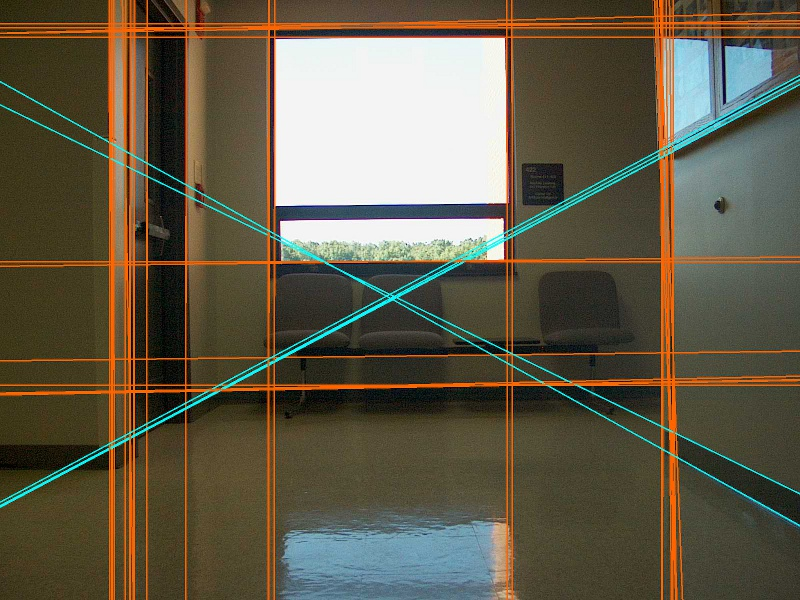
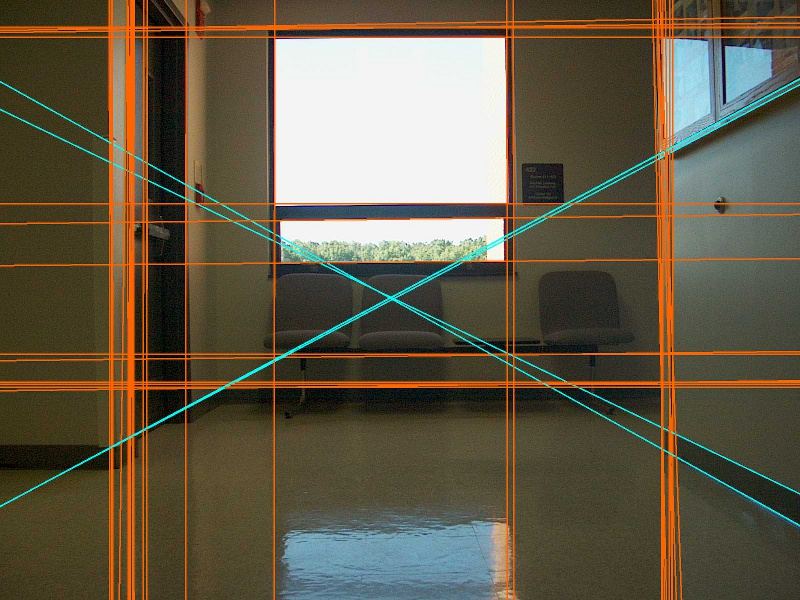
update

diff --git a/hw4/src/hw4.py b/hw4/src/hw4.py
@@ -10,9 +10,9 @@ import scipy as sp
 import numpy as np
 from scipy.optimize import minimize
 
-CANNY_TH1 = 125
-CANNY_TH2 = 250
-CANNY_GB_SIGMA = 3
+CANNY_TH1 = 250
+CANNY_TH2 = 500
+CANNY_GB_SIGMA = 2
 CANNY_APERTURE_SIZE = 5
 
 HOUGH_RHO = 1
@@ -86,6 +86,10 @@ def EstimateVanisingPoint(pts):
     
     if len(pts) == 0:
         return -1,-1
+    
+    # print out 5 most close to center points
+    for i in range(0, min(5, len(pts))):
+        print "%d %d,%d" % (i, pts[i][0], pts[i][1])
     
     xs = np.zeros(len(pts))
     ys = np.zeros(len(pts))
